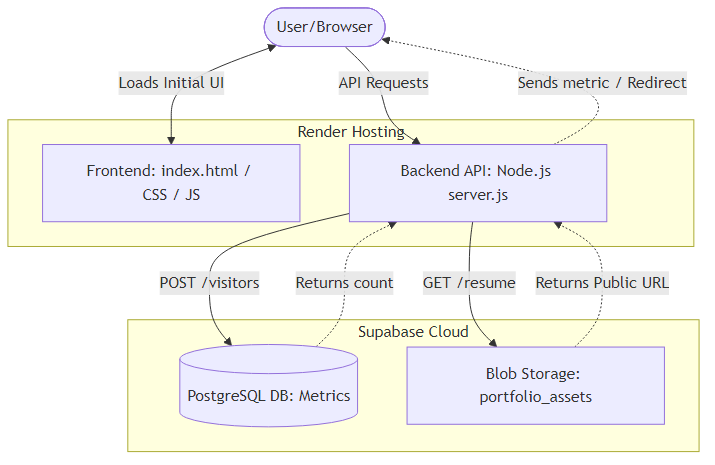
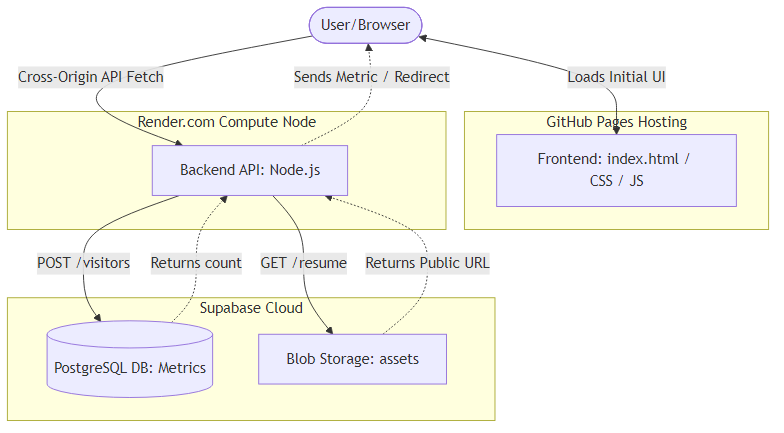
docs: Update HLD diagram and text for GitHub Pages deployment

diff --git a/README.md b/README.md
@@ -11,15 +11,15 @@ The architecture is explicitly designed to be ultra-lightweight on the client si
 ![High Level Design Architecture](hld.png)
 
 ### 1. The Presentation Layer (Frontend)
-Located entirely inside `index.html`. 
+Hosted statically on **GitHub Pages** for ultra-fast global distribution.
 *   **Vanilla Excellence:** Zero heavy frontend frameworks (no React/Vue). This ensures perfect Lighthouse performance scores and instantaneous TTFB (Time to First Byte).
 *   **Interactive Physics:** Implements physics-simulated keyframe CSS animations (e.g., The pull-string physics logic and the Rock Lee 8-Gates interactive sprite).
-*   **Typography:** Dynamically mapped to the modern `Geist` and `Geist Mono` CDN structure.
+*   **Cross-Origin Fetching:** Directly queries the Render backend server via fully decoupled remote endpoints for live dynamic data.
 
 ### 2. The Compute Node (Backend)
-Located in `server.js` and hosted as a Web Service on Render.
-*   **Architecture:** A native Node.js HTTP server.
-*   **Decoupled State:** Validates API routes (`/api/visitors`, `/api/resume`) and safely mediates traffic to the Cloud Database safely behind CORS barriers without exposing direct API manipulation to the client.
+Located in `server.js` and hosted as a Web Service on **Render**.
+*   **Architecture:** A native minimal Node.js server.
+*   **Decoupled State:** Validates API routes (`/api/visitors`, `/api/resume`) and safely mediates traffic to the Cloud Database behind completely open CORS barriers without exposing direct DB manipulation to the browser.
 
 ### 3. Database & Object Storage (Supabase)
 *   **Metrics:** A highly scalable PostgreSQL table responsible solely for iterating cross-session unique visitor counts.
@@ -49,7 +49,8 @@ Located in `server.js` and hosted as a Web Service on Render.
 
 ---
 
-## ☁ Deployment (Render)
+## ☁ Deployment Architecture
 
-This project contains Infrastructure as Code via `render.yaml`. 
-To deploy, simply link this repository to your Render account via a **Blueprint Deployment**. Render will automatically detect the configuration, build the environment, and prompt you securely for your Supabase `.env` variables!
+This project tightly follows decoupled hosting for best free tier scaling and performance:
+1. **Frontend (GitHub Pages):** Simply enable GitHub Pages in your repository settings pointing to the `main` branch to host `index.html` on a clean, reputable `.github.io` URL.
+2. **Backend (Render):** Deploy `server.js` via a **Blueprint Deployment** using the included `render.yaml`. Render automatically detects the configuration and prompts you securely for your Supabase `.env` variables!
